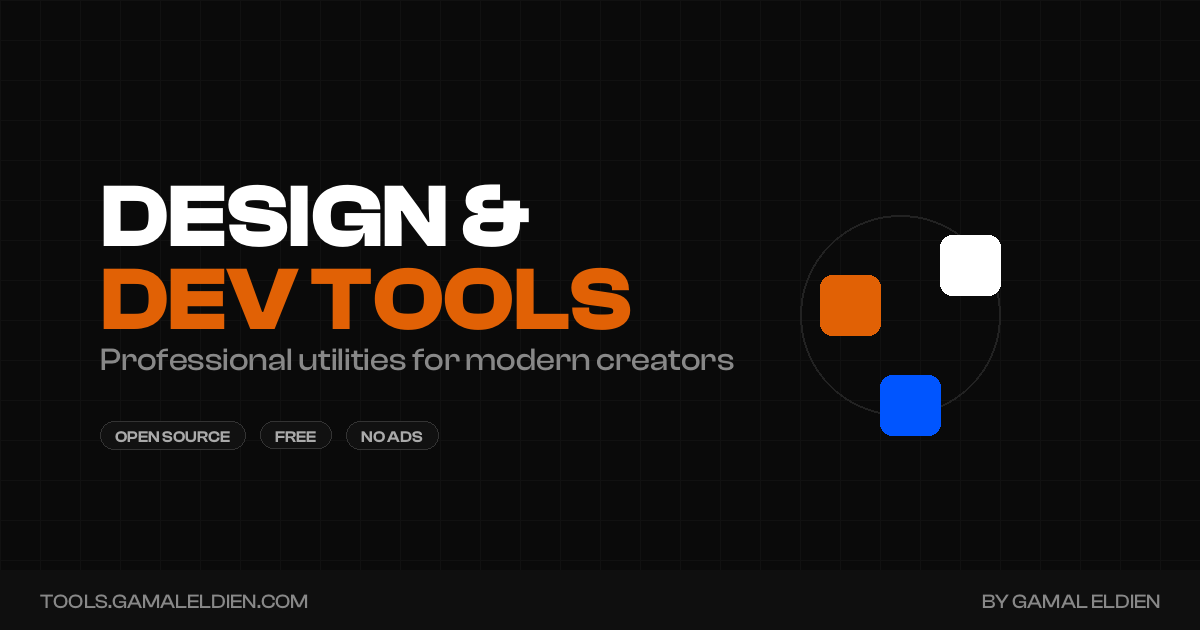
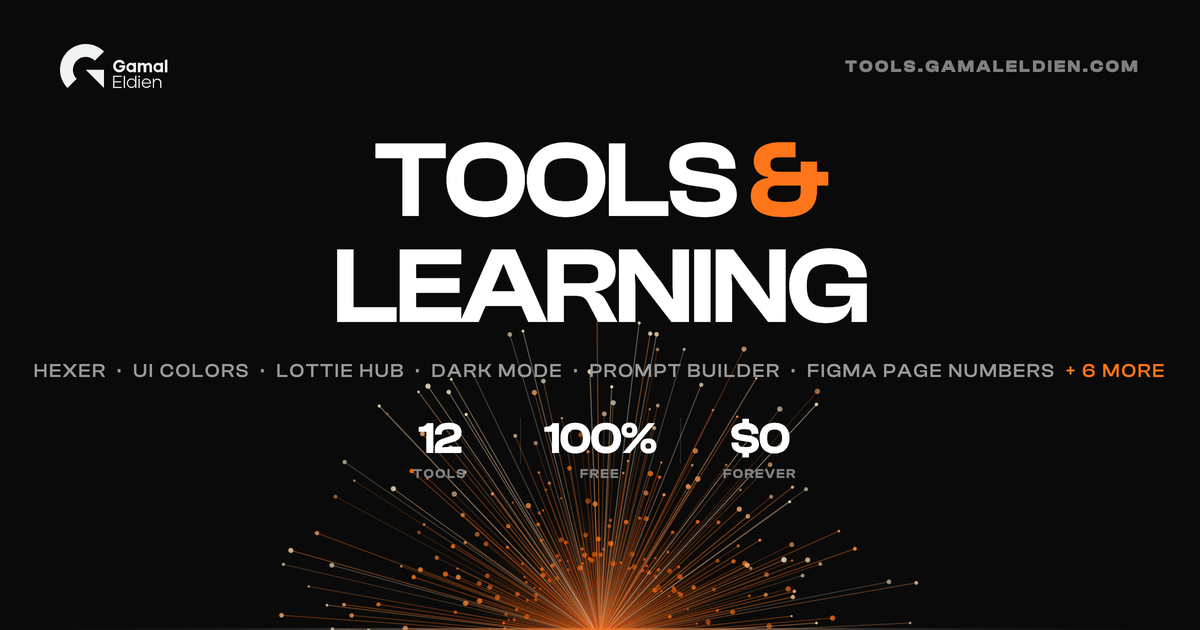
feat(landing): regenerate OG image from the new design — burst, tool lineup, stats
Rendered from og-source.html (committed as the regeneration source): Clash
Display type with the orange ampersand, the actual tool lineup as the subline,
12/100%/$0 stats, and the particle burst with its baseline. 2x canvas render
downscaled to 1200x630.

diff --git a/landing/og-source.html b/landing/og-source.html
@@ -1,0 +1,338 @@
+<!DOCTYPE html>
+<html lang="en">
+<head>
+<meta charset="UTF-8">
+<title>OG source — 1200×630</title>
+<style>
+@import url('https://api.fontshare.com/v2/css?f[]=clash-display@400,500,600,700&display=swap');
+
+* { box-sizing: border-box; margin: 0; padding: 0; }
+
+html, body { width: 1200px; height: 630px; overflow: hidden; }
+
+body {
+    font-family: 'Clash Display', sans-serif;
+    background: #0a0a0a;
+    color: #fff;
+    position: relative;
+    background-image: radial-gradient(circle, rgba(255,255,255,0.02) 1px, transparent 1px);
+    background-size: 32px 32px;
+}
+
+.burst {
+    position: absolute;
+    left: 0;
+    bottom: 0;
+    width: 1200px;
+    height: 340px;
+}
+
+.baseline {
+    position: absolute;
+    left: 0;
+    right: 0;
+    bottom: 0;
+    height: 2px;
+    background: linear-gradient(90deg,
+        transparent 0%,
+        rgba(255,255,255,0.10) 25%,
+        rgba(255,117,25,0.6) 50%,
+        rgba(255,255,255,0.10) 75%,
+        transparent 100%);
+}
+
+.topbar {
+    position: absolute;
+    top: 44px;
+    left: 60px;
+    right: 60px;
+    display: flex;
+    justify-content: space-between;
+    align-items: center;
+}
+
+.topbar svg { height: 44px; width: auto; }
+
+.domain {
+    font-size: 17px;
+    font-weight: 700;
+    letter-spacing: 0.14em;
+    color: #808080;
+    text-transform: uppercase;
+}
+
+.content {
+    position: absolute;
+    top: 128px;
+    left: 0;
+    right: 0;
+    text-align: center;
+}
+
+h1 {
+    font-size: 108px;
+    font-weight: 600;
+    line-height: 0.98;
+    letter-spacing: -0.03em;
+    text-transform: uppercase;
+}
+
+h1 .amp { color: rgb(255, 117, 25); }
+
+.sub {
+    margin-top: 22px;
+    font-size: 19px;
+    font-weight: 500;
+    letter-spacing: 0.1em;
+    text-transform: uppercase;
+    color: #999999;
+}
+
+.stats {
+    margin-top: 34px;
+    display: flex;
+    justify-content: center;
+    align-items: center;
+    gap: 48px;
+}
+
+.stat { text-align: center; }
+
+.stat b {
+    display: block;
+    font-size: 44px;
+    font-weight: 600;
+    letter-spacing: -0.02em;
+    line-height: 1;
+}
+
+.stat span {
+    display: block;
+    margin-top: 8px;
+    font-size: 13px;
+    font-weight: 600;
+    letter-spacing: 0.12em;
+    text-transform: uppercase;
+    color: #808080;
+}
+
+.sep { width: 1px; height: 44px; background: rgba(255,255,255,0.12); }
+</style>
+</head>
+<body>
+    <canvas class="burst" width="1200" height="340"></canvas>
+    <div class="baseline"></div>
+
+    <div class="topbar">
+        <svg xmlns="http://www.w3.org/2000/svg" viewBox="0 0 146.76 60.13">
+            <style>.lf{fill:#f1f2f2}</style>
+            <path d="M75.08 24.06c1.67-1.68 3.68-2.52 6.03-2.52 1.7 0 3.22.45 4.56 1.34 1.34.9 2.35 2.1 3.04 3.62l-3.41.98c-.4-.8-.97-1.42-1.72-1.86-.75-.44-1.57-.66-2.48-.66-1.41 0-2.59.5-3.54 1.49-.95.99-1.42 2.22-1.42 3.67s.47 2.68 1.42 3.66c.94.98 2.12 1.48 3.54 1.48 1.02 0 1.94-.27 2.78-.82s1.44-1.33 1.82-2.35l-4.5.02-.05-3.05h8.03v1.37c0 2.4-.77 4.38-2.31 5.93-1.54 1.55-3.46 2.33-5.77 2.33s-4.36-.84-6.03-2.51-2.5-3.69-2.5-6.06.83-4.39 2.5-6.07Zm17.37 3.41c1.22-1.26 2.69-1.9 4.41-1.9 1.35 0 2.51.43 3.48 1.3v-1.3h3.46v13.12h-3.44v-1.24c-.97.83-2.13 1.25-3.49 1.25-1.7 0-3.17-.65-4.4-1.94-1.23-1.3-1.85-2.83-1.85-4.61s.61-3.4 1.83-4.68Zm1.38 4.68c0 .93.32 1.73.97 2.4.64.67 1.44 1.01 2.39 1.01s1.72-.34 2.38-1.02c.67-.68 1-1.48 1-2.39s-.33-1.71-1-2.4c-.67-.69-1.46-1.03-2.38-1.03s-1.75.34-2.39 1.02c-.64.68-.97 1.48-.97 2.41Zm16.04-6.58v1.39c.95-.93 2.01-1.39 3.17-1.39 1.59 0 2.86.65 3.81 1.94a5.63 5.63 0 0 1 1.88-1.43c.73-.34 1.47-.52 2.22-.52 1.27 0 2.38.45 3.34 1.36.95.9 1.43 2.13 1.43 3.68v8.08h-3.46v-7.31c0-.82-.17-1.46-.51-1.93-.34-.47-.85-.71-1.51-.71-1.45 0-2.26.85-2.43 2.54v7.4h-3.46v-7.31c0-.82-.17-1.46-.51-1.93-.34-.47-.85-.71-1.51-.71-.84 0-1.46.28-1.86.85-.4.57-.6 1.31-.6 2.22v6.88h-3.46V25.55h3.46Zm19.59 1.9c1.22-1.26 2.69-1.9 4.41-1.9 1.35 0 2.51.43 3.48 1.3v-1.3h3.46v13.12h-3.46v-1.24c-.95.83-2.11 1.25-3.48 1.25-1.7 0-3.17-.65-4.4-1.94-1.23-1.3-1.85-2.83-1.85-4.61s.61-3.4 1.83-4.68Zm1.38 4.68c0 .93.32 1.73.97 2.4.64.67 1.44 1.01 2.39 1.01s1.72-.34 2.38-1.02c.67-.68 1-1.48 1-2.39s-.33-1.71-1-2.4c-.67-.69-1.46-1.03-2.38-1.03s-1.75.34-2.39 1.02c-.64.68-.97 1.48-.97 2.41Zm12.46 6.55V21.45h3.46V38.7h-3.46Zm-59.04 4.63v1.61H74.3v6h9v1.56h-9v6.02h9.96v1.61H72.57v-16.8h11.69Zm2.83 16.8v-16.8h1.68v16.8h-1.68Zm6.02-11.24c1.25-1.26 2.76-1.9 4.54-1.9 1.09 0 2.07.26 2.94.78.87.52 1.56 1.21 2.05 2.08v-6.52h1.68v16.79h-1.68v-2.86c-.5.86-1.18 1.56-2.05 2.08-.87.52-1.85.78-2.94.78-1.78 0-3.29-.64-4.54-1.93s-1.87-2.83-1.87-4.62.62-3.4 1.87-4.68Zm-.26 4.68c0 1.38.48 2.55 1.44 3.53s2.13 1.46 3.5 1.46 2.52-.49 3.49-1.46c.97-.98 1.45-2.15 1.45-3.53s-.48-2.56-1.45-3.55c-.97-.99-2.13-1.49-3.49-1.49s-2.54.49-3.5 1.46c-.96.98-1.44 2.17-1.44 3.58Zm14.45-9.9c.24-.22.54-.34.89-.34s.67.12.91.35c.24.23.36.52.36.88s-.12.64-.36.88c-.24.23-.54.35-.91.35s-.65-.12-.89-.35c-.24-.23-.36-.52-.36-.88s.12-.65.36-.89Zm1.73 3.74v12.72h-1.68V47.41h1.68Zm4.51 1.5c1.26-1.28 2.79-1.92 4.58-1.92 1.65 0 3.08.55 4.28 1.66 1.21 1.1 1.91 2.46 2.1 4.08.06.3.1.58.1.84 0 .21-.02.41-.07.6H113.3c.11 1.3.62 2.36 1.54 3.18.91.82 2.01 1.24 3.29 1.24.88 0 1.7-.2 2.47-.61s1.38-.96 1.85-1.67l1.58.31c-.53 1.06-1.33 1.9-2.41 2.54a6.72 6.72 0 0 1-3.49.96c-1.82 0-3.36-.64-4.62-1.92-1.26-1.28-1.88-2.83-1.88-4.66s.64-3.35 1.92-4.63Zm-.24 3.89h9.55c-.13-1.22-.63-2.23-1.51-3.05-.88-.82-1.95-1.22-3.22-1.22s-2.37.41-3.28 1.22c-.9.82-1.42 1.83-1.55 3.05Zm13.56-5.81h1.68v2.87c.42-.77 1.02-1.4 1.81-1.91s1.72-.76 2.77-.76c1.49 0 2.76.48 3.82 1.44s1.58 2.25 1.58 3.86v7.63h-1.68v-7.1c0-1.33-.38-2.37-1.15-3.12-.77-.75-1.71-1.13-2.83-1.13-1.25 0-2.28.46-3.1 1.37s-1.22 2.08-1.22 3.5v6.48h-1.68V46.98ZM60.12 35.22v24.9l-24.9-24.9h24.9z" class="lf"/>
+            <path d="M60.12 10.32 47.67 22.77c-3.44-3.44-7.94-5.16-12.45-5.16s-9.01 1.72-12.45 5.16c-3.44 3.43-5.16 7.94-5.16 12.45s1.72 9.01 5.16 12.45L10.32 60.12C3.94 53.75 0 44.94 0 35.22s3.94-18.53 10.32-24.9C16.69 3.94 25.49 0 35.22 0s18.53 3.94 24.9 10.32Z" class="lf"/>
+        </svg>
+        <div class="domain">tools.gamaleldien.com</div>
+    </div>
+
+    <div class="content">
+        <h1>Tools <span class="amp">&amp;</span><br>Learning</h1>
+        <div class="sub">Hexer &nbsp;·&nbsp; UI Colors &nbsp;·&nbsp; Lottie Hub &nbsp;·&nbsp; Dark Mode &nbsp;·&nbsp; Prompt Builder &nbsp;·&nbsp; Figma Page Numbers <span style="color:rgb(255,117,25)">+ 6 more</span></div>
+        <div class="stats">
+            <div class="stat"><b>12</b><span>Tools</span></div>
+            <div class="sep"></div>
+            <div class="stat"><b>100%</b><span>Free</span></div>
+            <div class="sep"></div>
+            <div class="stat"><b>$0</b><span>Forever</span></div>
+        </div>
+    </div>
+
+<script>
+/* Static frame of the landing burst, tuned for the OG crop */
+var canvas = document.querySelector('.burst');
+var ctx = canvas.getContext('2d');
+var W = 1200, H = 340;
+var PALETTE = [[176, 34, 12], [214, 78, 10], [255, 117, 25], [255, 233, 197]];
+function pal(k) {
+    var seg = Math.min(2.999, Math.max(0, k) * 3), i = Math.floor(seg), f = seg - i;
+    var a = PALETTE[i], b = PALETTE[i + 1];
+    return [a[0] + (b[0] - a[0]) * f, a[1] + (b[1] - a[1]) * f, a[2] + (b[2] - a[2]) * f];
+}
+function rgba(c, a) { return 'rgba(' + (c[0] | 0) + ',' + (c[1] | 0) + ',' + (c[2] | 0) + ',' + a + ')'; }
+
+/* Seeded PRNG so the frame is reproducible */
+var seed = 20260801;
+function rnd() { seed = (seed * 1664525 + 1013904223) >>> 0; return seed / 4294967296; }
+
+var ox = W / 2, oy = H + 8;
+var core = ctx.createRadialGradient(ox, oy, 0, ox, oy, 130);
+core.addColorStop(0, 'rgba(255,233,197,0.35)');
+core.addColorStop(0.5, 'rgba(255,117,25,0.12)');
+core.addColorStop(1, 'rgba(255,117,25,0)');
+ctx.fillStyle = core;
+ctx.fillRect(ox - 130, oy - 130, 260, 260);
+
+var N = 240, maxR = 330;
+ctx.lineWidth = 1;
+ctx.lineCap = 'round';
+for (var i = 0; i < N; i++) {
+    var a = Math.PI + (i / (N - 1)) * Math.PI + (rnd() - 0.5) * 0.02;
+    var lenK = 0.22 + Math.pow(rnd(), 1.5) * 0.78;
+    var len = lenK * maxR;
+    var k = Math.min(1, lenK * (0.55 + rnd() * 0.7));
+    var alpha = 0.18 + rnd() * 0.32;
+    var tip = 1 + rnd() * 1.8;
+    var ex = ox + Math.cos(a) * len;
+    var ey = oy + Math.sin(a) * len;
+    ctx.strokeStyle = rgba(pal(k), alpha);
+    ctx.beginPath();
+    ctx.moveTo(ox, oy);
+    ctx.lineTo(ex, ey);
+    ctx.stroke();
+    ctx.fillStyle = rgba(pal(Math.min(1, k + 0.25)), Math.min(1, alpha + 0.35));
+    ctx.beginPath();
+    ctx.arc(ex, ey, tip, 0, 6.2832);
+    ctx.fill();
+}
+
+/* ============================================================
+   Offscreen 2x render of the full OG card — immune to browser
+   zoom — uploaded as PNG to the local receiver on :8977.
+   ============================================================ */
+(async function () {
+    var LOGO_P1 = document.querySelectorAll('.topbar svg path')[0].getAttribute('d');
+    var LOGO_P2 = document.querySelectorAll('.topbar svg path')[1].getAttribute('d');
+
+    await Promise.all([
+        document.fonts.load('600 108px "Clash Display"', 'TOOLS'),
+        document.fonts.load('500 19px "Clash Display"', 'HEXER'),
+        document.fonts.load('700 17px "Clash Display"', 'TOOLS'),
+        document.fonts.load('600 44px "Clash Display"', '12'),
+        document.fonts.load('600 13px "Clash Display"', 'FREE')
+    ]);
+    await document.fonts.ready;
+
+    var c = document.createElement('canvas');
+    c.width = 2400; c.height = 1260;
+    var g = c.getContext('2d');
+    g.scale(2, 2);
+
+    /* bg */
+    g.fillStyle = '#0a0a0a';
+    g.fillRect(0, 0, 1200, 630);
+
+    /* dot grid */
+    g.fillStyle = 'rgba(255,255,255,0.022)';
+    for (var dx = 16; dx < 1200; dx += 32) {
+        for (var dy = 16; dy < 630; dy += 32) {
+            g.beginPath(); g.arc(dx, dy, 1, 0, 6.2832); g.fill();
+        }
+    }
+
+    /* burst (seeded, origin bottom center) */
+    var s2 = 20260801;
+    function rnd2() { s2 = (s2 * 1664525 + 1013904223) >>> 0; return s2 / 4294967296; }
+    var bx = 600, by = 638;
+    var core2 = g.createRadialGradient(bx, by, 0, bx, by, 130);
+    core2.addColorStop(0, 'rgba(255,233,197,0.35)');
+    core2.addColorStop(0.5, 'rgba(255,117,25,0.12)');
+    core2.addColorStop(1, 'rgba(255,117,25,0)');
+    g.fillStyle = core2;
+    g.fillRect(bx - 130, by - 130, 260, 260);
+    g.lineWidth = 1;
+    g.lineCap = 'round';
+    for (var i = 0; i < 240; i++) {
+        var a = Math.PI + (i / 239) * Math.PI + (rnd2() - 0.5) * 0.02;
+        var lenK = 0.22 + Math.pow(rnd2(), 1.5) * 0.78;
+        var len = lenK * 330;
+        var k = Math.min(1, lenK * (0.55 + rnd2() * 0.7));
+        var alpha = 0.18 + rnd2() * 0.32;
+        var tip = 1 + rnd2() * 1.8;
+        var ex = bx + Math.cos(a) * len, ey = by + Math.sin(a) * len;
+        g.strokeStyle = rgba(pal(k), alpha);
+        g.beginPath(); g.moveTo(bx, by); g.lineTo(ex, ey); g.stroke();
+        g.fillStyle = rgba(pal(Math.min(1, k + 0.25)), Math.min(1, alpha + 0.35));
+        g.beginPath(); g.arc(ex, ey, tip, 0, 6.2832); g.fill();
+    }
+
+    /* baseline */
+    var bl = g.createLinearGradient(0, 0, 1200, 0);
+    bl.addColorStop(0, 'rgba(0,0,0,0)');
+    bl.addColorStop(0.25, 'rgba(255,255,255,0.10)');
+    bl.addColorStop(0.5, 'rgba(255,117,25,0.6)');
+    bl.addColorStop(0.75, 'rgba(255,255,255,0.10)');
+    bl.addColorStop(1, 'rgba(0,0,0,0)');
+    g.fillStyle = bl;
+    g.fillRect(0, 628, 1200, 2);
+
+    /* logo */
+    g.save();
+    g.translate(60, 44);
+    g.scale(44 / 60.13, 44 / 60.13);
+    g.fillStyle = '#f1f2f2';
+    g.fill(new Path2D(LOGO_P1));
+    g.fill(new Path2D(LOGO_P2));
+    g.restore();
+
+    /* domain */
+    g.letterSpacing = '2.4px';
+    g.font = '700 17px "Clash Display"';
+    g.fillStyle = '#808080';
+    g.textAlign = 'right';
+    g.fillText('TOOLS.GAMALELDIEN.COM', 1140, 72);
+
+    /* title */
+    g.letterSpacing = '-3.2px';
+    g.font = '600 108px "Clash Display"';
+    var w1 = g.measureText('TOOLS ').width;
+    var w2 = g.measureText('&').width;
+    var x0 = 600 - (w1 + w2) / 2;
+    g.textAlign = 'left';
+    g.fillStyle = '#ffffff';
+    g.fillText('TOOLS ', x0, 216);
+    g.fillStyle = 'rgb(255,117,25)';
+    g.fillText('&', x0 + w1, 216);
+    g.textAlign = 'center';
+    g.fillStyle = '#ffffff';
+    g.fillText('LEARNING', 600, 322);
+
+    /* tools list */
+    g.letterSpacing = '1.9px';
+    g.font = '500 19px "Clash Display"';
+    var main = 'HEXER  ·  UI COLORS  ·  LOTTIE HUB  ·  DARK MODE  ·  PROMPT BUILDER  ·  FIGMA PAGE NUMBERS  ';
+    var more = '+ 6 MORE';
+    var mw = g.measureText(main).width;
+    var ow = g.measureText(more).width;
+    var tx = 600 - (mw + ow) / 2;
+    g.textAlign = 'left';
+    g.fillStyle = '#999999';
+    g.fillText(main, tx, 377);
+    g.fillStyle = 'rgb(255,117,25)';
+    g.fillText(more, tx + mw, 377);
+
+    /* stats */
+    var cols = [[440, '12', 'TOOLS'], [600, '100%', 'FREE'], [760, '$0', 'FOREVER']];
+    g.textAlign = 'center';
+    for (var ci = 0; ci < 3; ci++) {
+        g.letterSpacing = '-0.9px';
+        g.font = '600 44px "Clash Display"';
+        g.fillStyle = '#ffffff';
+        g.fillText(cols[ci][1], cols[ci][0], 453);
+        g.letterSpacing = '1.6px';
+        g.font = '600 13px "Clash Display"';
+        g.fillStyle = '#808080';
+        g.fillText(cols[ci][2], cols[ci][0], 478);
+    }
+    g.fillStyle = 'rgba(255,255,255,0.12)';
+    g.fillRect(520, 418, 1, 46);
+    g.fillRect(680, 418, 1, 46);
+
+    c.toBlob(async function (blob) {
+        try {
+            var res = await fetch('http://127.0.0.1:8977/og.png', { method: 'PUT', body: blob });
+            document.title = res.ok ? 'UPLOADED' : 'UPLOAD FAILED ' + res.status;
+        } catch (e) {
+            document.title = 'UPLOAD ERROR: ' + e.message;
+        }
+    }, 'image/png');
+})();
+</script>
+</body>
+</html>
